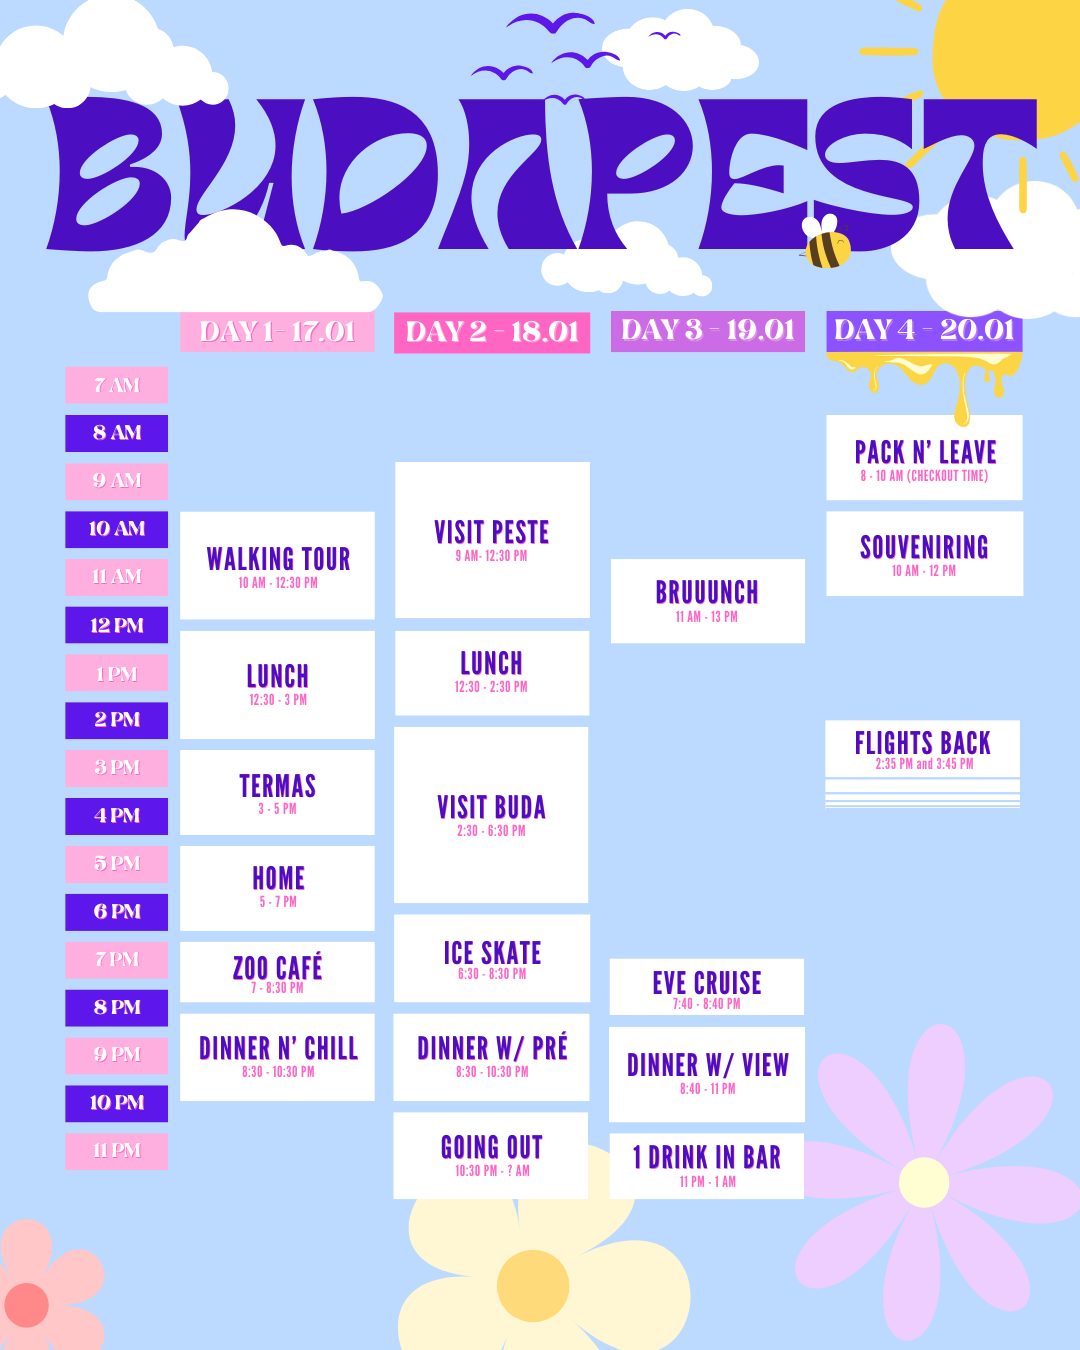
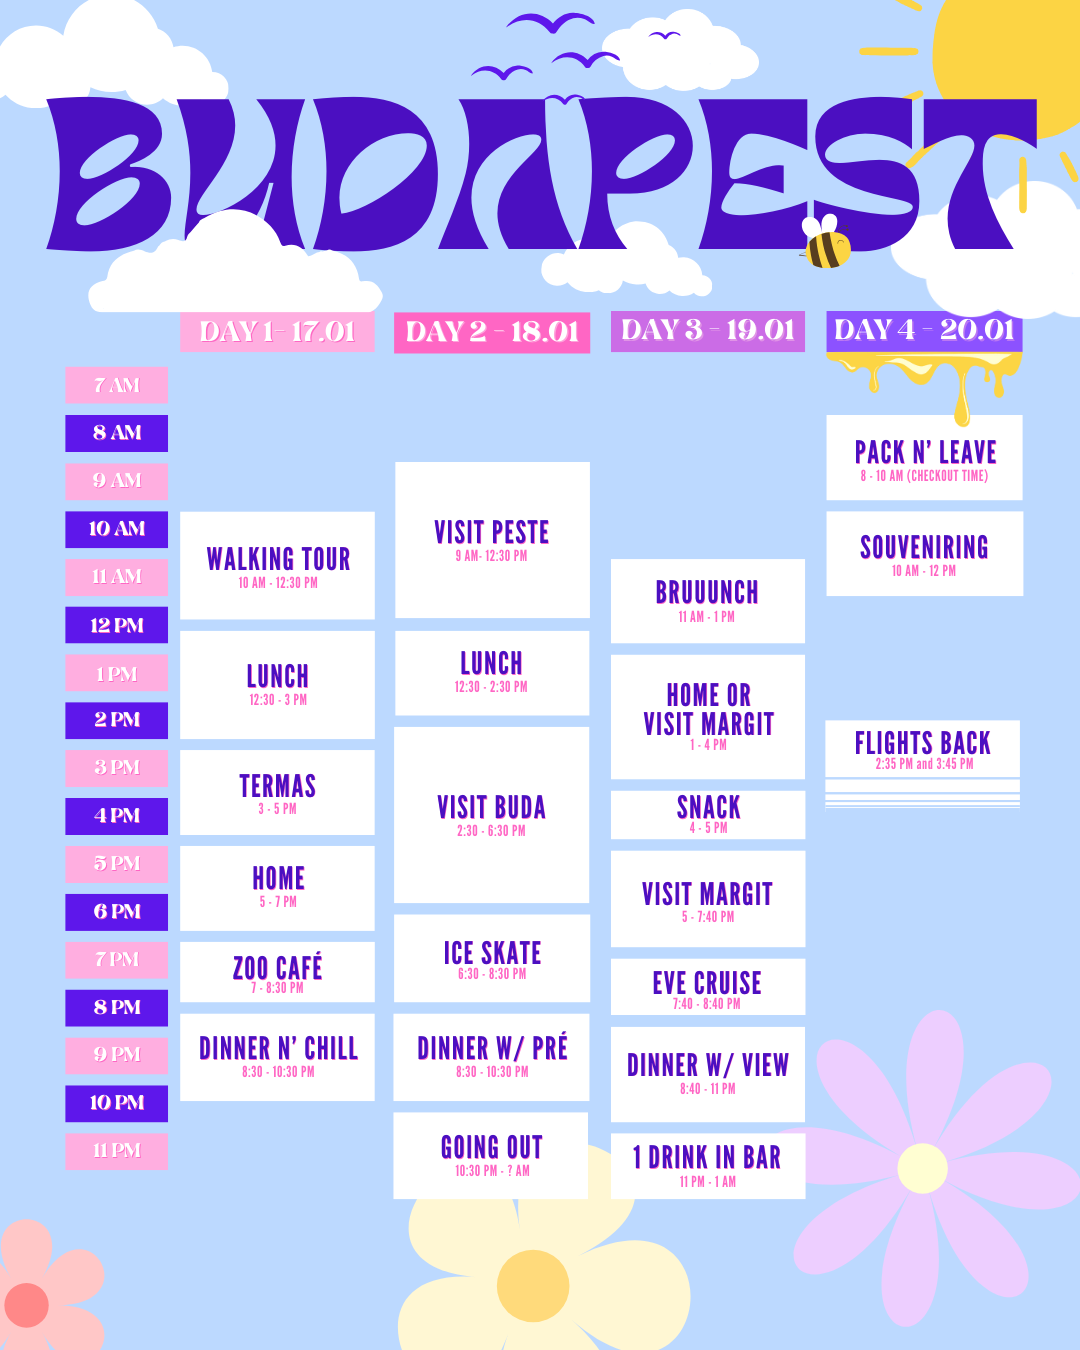
adding last, removing target = _blank

diff --git a/budapest/index.html b/budapest/index.html
@@ -53,23 +53,29 @@
     >
     <map name="schedule-map" id="schedule-map">
       <!-- Define the original coordinates of clickable areas -->
-      <area target="_blank" alt="docs" title="docs" href="https://docs.google.com/document/d/1CbNuIUP5km7JNW8C9OTAIKRyBaV6SOlCnsIKq-90U-Y/edit?tab=t.0" coords="43,98,1036,252" shape="rect">
-      <area target="_blank" alt="termas" title="termas" href="termas" coords="181,751,375,834" shape="rect">
-      <area target="_blank" alt="zoocafe" title="zoocafe" href="zoocafe" coords="181,943,376,1008" shape="rect">
-      <area target="-_blank" alt="iceskate" title="iceskate" href="iceskate" coords="395,911,590,1008" shape="rect">
-      <area target="_blank" alt="evecruise" title="evecruise" href="evecruise" coords="611,961,803,1016" shape="rect">
-      <area target="_blank" alt="walktour" title="walktour" href="walktour" coords="182,512,375,619" shape="rect">
-      <area target="_blank" alt="brunch" title="brunch" href="brunch" coords="612,559,804,642" shape="rect">
-      <area target="_blank" alt="lunch" title="lunch" href="lunchmazeltov" coords="395,632,588,715" shape="rect">
-      <area target="_blank" alt="home" title="home" href="home" coords="180,846,375,930" shape="rect">
-      <area target="_blank" alt="homedinner" title="homedinner" href="home" coords="180,1014,374,1100" shape="rect">
-      <area target="_blank" alt="dinnercompre" title="dinnercompre" href="home" coords="394,1014,589,1100" shape="rect">
-      <area target="_blank" alt="packleave" title="packleave" href="home" coords="826,416,1023,499" shape="rect">
-      <area target="_blank" alt="aldi" title="aldi" href="lunchstreet" coords="181,632,374,738" shape="rect">
-      <area target="_blank" alt="goingout" title="goingout" href="goingout" coords="393,1113,588,1198" shape="rect">
-      <area target="_blank" alt="sundaydinner" title="sundaydinner" href="sundaydinner" coords="610,1028,804,1122" shape="rect">
-      <area target="_blank" alt="onedrink" title="onedrink" href="onedrink" coords="612,1134,804,1197" shape="rect">
-      <area target="_blank" alt="visitpeste" title="visitpeste" href="visitpeste" coords="396,462,590,618" shape="rect">
+      <area alt="docs" title="docs" href="https://docs.google.com/document/d/1CbNuIUP5km7JNW8C9OTAIKRyBaV6SOlCnsIKq-90U-Y/edit?tab=t.0" coords="43,98,1036,252" shape="rect">
+      <area alt="termas" title="termas" href="termas" coords="181,751,375,834" shape="rect">
+      <area alt="zoocafe" title="zoocafe" href="zoocafe" coords="181,943,376,1008" shape="rect">
+      <area alt="iceskate" title="iceskate" href="iceskate" coords="395,911,590,1008" shape="rect">
+      <area alt="evecruise" title="evecruise" href="evecruise" coords="611,961,803,1016" shape="rect">
+      <area alt="walktour" title="walktour" href="walktour" coords="182,512,375,619" shape="rect">
+      <area alt="brunch" title="brunch" href="brunch" coords="612,559,804,642" shape="rect">
+      <area alt="lunch" title="lunch" href="lunchmazeltov" coords="395,632,588,715" shape="rect">
+      <area alt="home" title="home" href="home" coords="180,846,375,930" shape="rect">
+      <area alt="homedinner" title="homedinner" href="home" coords="180,1014,374,1100" shape="rect">
+      <area alt="dinnercompre" title="dinnercompre" href="home" coords="394,1014,589,1100" shape="rect">
+      <area alt="packleave" title="packleave" href="home" coords="826,416,1023,499" shape="rect">
+      <area alt="aldi" title="aldi" href="lunchstreet" coords="181,632,374,738" shape="rect">
+      <area alt="goingout" title="goingout" href="goingout" coords="393,1113,588,1198" shape="rect">
+      <area alt="sundaydinner" title="sundaydinner" href="sundaydinner" coords="610,1028,804,1122" shape="rect">
+      <area alt="onedrink" title="onedrink" href="onedrink" coords="612,1134,804,1197" shape="rect">
+      <area alt="visitpeste" title="visitpeste" href="visitpeste" coords="396,462,590,618" shape="rect">
+      <area alt="islandcafe" title="islandcafe" href="islandcafe" coords="612,792,805,838" shape="rect">
+      <area alt="visitmargit" title="visitmargit" href="visitmargit" coords="612,656,804,778" shape="rect">
+      <area alt="visitmargit" title="visitmargit" href="visitmargit" coords="612,852,804,946" shape="rect">
+
+
+
 
 
 

diff --git a/budapest/visitmargit/index.html b/budapest/visitmargit/index.html
@@ -1,0 +1,33 @@
+<!DOCTYPE html>
+<html lang="en">
+<head>
+  <meta charset="UTF-8">
+  <meta name="viewport" content="width=device-width, initial-scale=1.0">
+  <title>Széchenyi Thermal Baths</title>
+  <link rel="stylesheet" href="../css/style.css">
+  <link rel="icon" href="../graphics/bee.png" type="image/png">
+  <meta name="theme-color" content="#A8CFFF">
+</head>
+<body>
+  <div class="container">
+    <a href="/budapest" style="text-decoration: none;">
+      <h1>Margaret Island</h1>
+    </a>
+    <p class="didyouknow">DID YOU KNOW?</p>
+    <p>
+      <span class="highlight">Margaret Island</span> is a serene getaway in the heart of Budapest. Known for its <span class="highlight">beautiful gardens, medieval ruins</span>, and <span class="highlight">musical fountain</span>, it’s the perfect spot to relax and explore. Whether walking, biking, or enjoying a picnic, the island offers activities for all.
+    </p>
+    <div class="buttons">
+      <a href="https://en.wikipedia.org/wiki/Margaret_Island" target="_blank">Learn More</a>
+    </div>
+    <div class="clouds">
+      <img src="../graphics/cloud1.png" alt="Cloud" class="cloud cloud1">
+      <img src="../graphics/cloud2.png" alt="Cloud" class="cloud cloud2">
+      <img src="../graphics/cloud3.png" alt="Cloud" class="cloud cloud3">
+      <img src="../graphics/bee.png" alt="Bee" class="cloud bee">
+      <img src="../graphics/sun.png" alt="Sun" class="cloud sun">
+    </div>
+    <iframe src="https://www.google.com/maps/embed?pb=!1m18!1m12!1m3!1d309.9494489841656!2d19.043557655608122!3d47.51598022102158!2m3!1f0!2f0!3f0!3m2!1i1024!2i768!4f13.1!3m3!1m2!1s0x4741dc06840d626b%3A0xd881d77ea9ec4db9!2sMargitsziget%20%2F%20Margit%20h%C3%ADd!5e0!3m2!1spt-PT!2snl!4v1736979610087!5m2!1spt-PT!2snl" width="600" height="450" style="border:0;" allowfullscreen="" loading="lazy" referrerpolicy="no-referrer-when-downgrade"></iframe>
+  </div>
+</body>
+</html>

diff --git a/budapest/islandcafe/index.html b/budapest/islandcafe/index.html
@@ -1,0 +1,31 @@
+<!DOCTYPE html>
+<html lang="en">
+<head>
+  <meta charset="UTF-8">
+  <meta name="viewport" content="width=device-width, initial-scale=1.0">
+  <title>Széchenyi Thermal Baths</title>
+  <link rel="stylesheet" href="../css/style.css">
+  <link rel="icon" href="../graphics/bee.png" type="image/png">
+  <meta name="theme-color" content="#A8CFFF">
+</head>
+<body>
+  <div class="container">
+    <a href="/budapest" style="text-decoration: none;">
+      <h1>Kadarka Bárka <br> Margaret Island</h1>
+    </a>
+    <p class="didyouknow">DID YOU KNOW?</p>
+    <p>
+      <span class="highlight">Kadarka Bárka</span> is a floating bar on Margaret Island offering <span class="highlight">Hungarian wines</span> and light snacks. Relax by the Danube and enjoy the tranquil setting of this unique spot.
+    </p>
+
+    <div class="clouds">
+      <img src="../graphics/cloud1.png" alt="Cloud" class="cloud cloud1">
+      <img src="../graphics/cloud2.png" alt="Cloud" class="cloud cloud2">
+      <img src="../graphics/cloud3.png" alt="Cloud" class="cloud cloud3">
+      <img src="../graphics/bee.png" alt="Bee" class="cloud bee">
+      <img src="../graphics/sun.png" alt="Sun" class="cloud sun">
+    </div>
+    <iframe src="https://www.google.com/maps/embed?pb=!1m18!1m12!1m3!1d1347.3131636851338!2d19.04190223967285!3d47.516668!2m3!1f0!2f0!3f0!3m2!1i1024!2i768!4f13.1!3m3!1m2!1s0x4741dc06962e6b29%3A0x734fa60fb37bc62c!2sKadarka%20B%C3%A1rka!5e0!3m2!1spt-PT!2snl!4v1736978272337!5m2!1spt-PT!2snl" width="600" height="450" style="border:0;" allowfullscreen="" loading="lazy" referrerpolicy="no-referrer-when-downgrade"></iframe>
+  </div>
+</body>
+</html>
